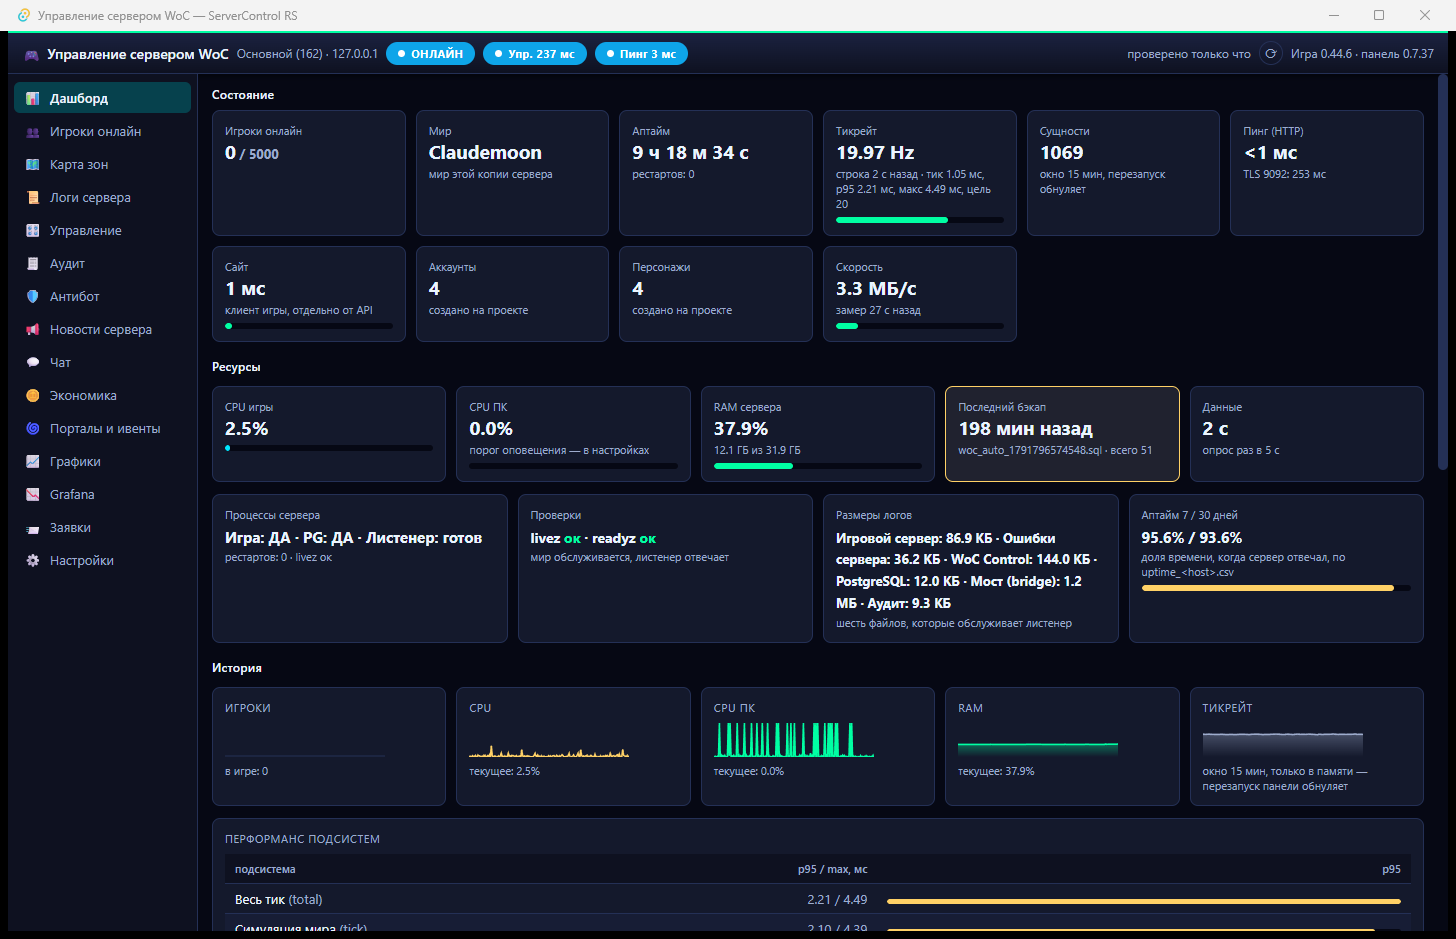
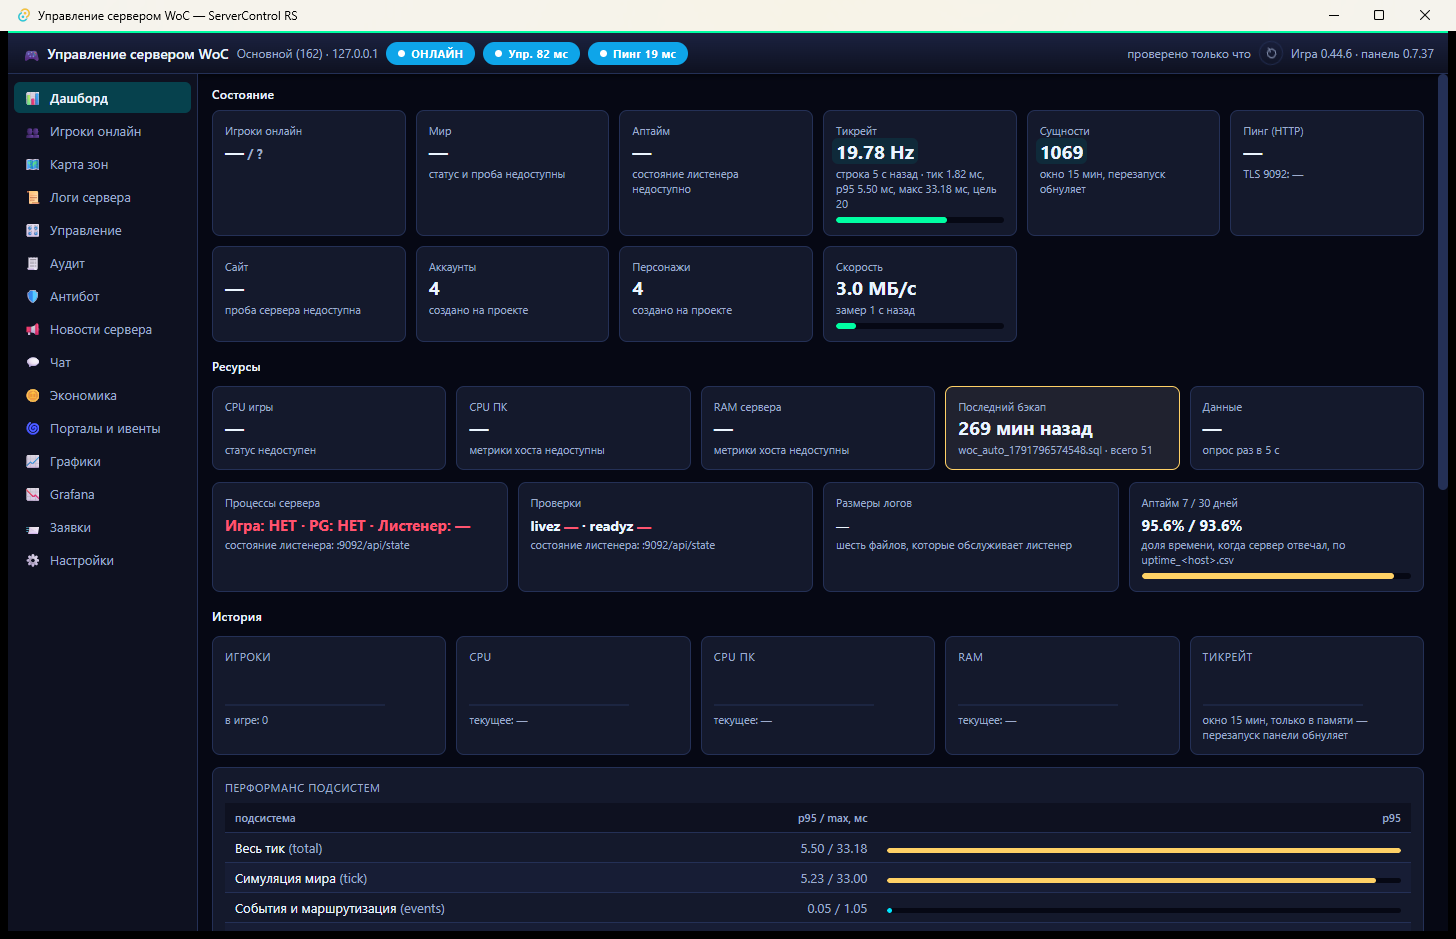
Галерея: скриншоты всех 14 вкладок панели 0.7.37, лайтбокс, обновлён hero

diff --git a/index.html b/index.html
@@ -156,6 +156,23 @@ h2{font-family:"Cinzel",serif;font-size:24px;font-weight:700;color:var(--txt);ma
 .faq-item.open .faq-a{max-height:200px}
 .faq-a-inner{padding:0 18px 14px;line-height:1.7}
 
+/* === GALLERY === */
+.gal{display:grid;grid-template-columns:repeat(auto-fill,minmax(320px,1fr));gap:16px}
+.gal-item{border:1px solid var(--border);border-radius:10px;overflow:hidden;background:var(--panel);cursor:pointer;transition:all .25s;position:relative}
+.gal-item:hover{border-color:var(--accent);transform:translateY(-4px);box-shadow:0 8px 32px var(--shadow)}
+.gal-item img{width:100%;display:block;aspect-ratio:16/10;object-fit:cover;object-position:top left}
+.gal-cap{padding:10px 14px;font-size:12px;color:var(--sub);display:flex;align-items:center;gap:8px;background:var(--card);border-top:1px solid var(--border)}
+.gal-cap span{font-size:14px}
+/* Lightbox */
+.lb{position:fixed;inset:0;background:rgba(0,0,0,.88);z-index:200;display:none;align-items:center;justify-content:center;flex-direction:column;gap:16px;padding:24px;backdrop-filter:blur(6px)}
+.lb.open{display:flex}
+.lb img{max-width:92vw;max-height:80vh;border-radius:10px;border:1px solid var(--border);box-shadow:0 12px 60px rgba(0,0,0,.7)}
+.lb-close{position:absolute;top:18px;right:22px;width:40px;height:40px;border-radius:50%;border:1px solid var(--border);background:var(--panel);color:var(--txt);font-size:20px;cursor:pointer;display:flex;align-items:center;justify-content:center;transition:all .2s}
+.lb-close:hover{background:var(--bad);border-color:var(--bad);color:#fff}
+.lb-cap{color:var(--sub);font-size:14px}
+
+@media(max-width:700px){.gal{grid-template-columns:1fr}}
+
 /* === CTA === */
 .cta{text-align:center;padding:60px 24px;border-top:1px solid var(--border)}
 .cta h2{font-size:26px;margin-bottom:10px}
@@ -223,6 +240,82 @@ h2{font-family:"Cinzel",serif;font-size:24px;font-weight:700;color:var(--txt);ma
   <div class="stat-item"><div class="stat-num" data-count="424">0</div><div class="stat-lbl">Rust-тестов</div></div>
   <div class="stat-item"><div class="stat-num" data-count="725">0</div><div class="stat-lbl">фронт-тестов</div></div>
   <div class="stat-item"><div class="stat-num" data-count="14">0</div><div class="stat-lbl">фикс. аудита</div></div>
+</div>
+
+<div class="divider"></div>
+
+<!-- ГАЛЕРЕЯ -->
+<div class="wrap">
+<div class="sec-head reveal">
+<div class="sec-tag">Галерея</div>
+<h2>Все вкладки панели</h2>
+<p>Нажмите на скриншот, чтобы открыть полный размер. Данные с живого сервера 0.44.6.</p>
+</div>
+<div class="gal">
+  <div class="gal-item reveal" data-img="panel_dash.png" data-cap="Дашборд — состояние сервера, ресурсы, история">
+    <img src="panel_dash.png" alt="Дашборд" loading="lazy">
+    <div class="gal-cap"><span>&#128202;</span> Дашборд</div>
+  </div>
+  <div class="gal-item reveal" data-img="panel_players.png" data-cap="Игроки онлайн — фильтры, классы, зоны, гильдии">
+    <img src="panel_players.png" alt="Игроки онлайн" loading="lazy">
+    <div class="gal-cap"><span>&#128101;</span> Игроки онлайн</div>
+  </div>
+  <div class="gal-item reveal" data-img="panel_map.png" data-cap="Карта зон — живая карта континента с игроками и порталами">
+    <img src="panel_map.png" alt="Карта зон" loading="lazy">
+    <div class="gal-cap"><span>&#128506;</span> Карта зон</div>
+  </div>
+  <div class="gal-item reveal" data-img="panel_logs.png" data-cap="Логи сервера — семь логов, фильтры, автоскролл">
+    <img src="panel_logs.png" alt="Логи сервера" loading="lazy">
+    <div class="gal-cap"><span>&#128220;</span> Логи сервера</div>
+  </div>
+  <div class="gal-item reveal" data-img="panel_manage.png" data-cap="Управление — стоп/старт, бэкапы, баны, плановый рестарт">
+    <img src="panel_manage.png" alt="Управление сервером" loading="lazy">
+    <div class="gal-cap"><span>&#127918;</span> Управление</div>
+  </div>
+  <div class="gal-item reveal" data-img="panel_antibot.png" data-cap="Антибот — детектор, подозрительные, калибровка">
+    <img src="panel_antibot.png" alt="Антибот" loading="lazy">
+    <div class="gal-cap"><span>&#128737;</span> Антибот</div>
+  </div>
+  <div class="gal-item reveal" data-img="panel_news.png" data-cap="Новости сервера — rich-text объявления с расписанием">
+    <img src="panel_news.png" alt="Новости сервера" loading="lazy">
+    <div class="gal-cap"><span>&#128226;</span> Новости сервера</div>
+  </div>
+  <div class="gal-item reveal" data-img="panel_chat.png" data-cap="Чат — переписка, собеседники, быстрые ответы">
+    <img src="panel_chat.png" alt="Чат" loading="lazy">
+    <div class="gal-cap"><span>&#128172;</span> Чат</div>
+  </div>
+  <div class="gal-item reveal" data-img="panel_economy.png" data-cap="Экономика — аккаунты Claudium, каталог, леджер, магазин">
+    <img src="panel_economy.png" alt="Экономика" loading="lazy">
+    <div class="gal-cap"><span>&#128176;</span> Экономика</div>
+  </div>
+  <div class="gal-item reveal" data-img="panel_portals.png" data-cap="Порталы и ивенты — открытые порталы с таймерами">
+    <img src="panel_portals.png" alt="Порталы и ивенты" loading="lazy">
+    <div class="gal-cap"><span>&#127744;</span> Порталы и ивенты</div>
+  </div>
+  <div class="gal-item reveal" data-img="panel_charts.png" data-cap="Графики — история CPU, RAM, онлайн, пинг">
+    <img src="panel_charts.png" alt="Графики" loading="lazy">
+    <div class="gal-cap"><span>&#128200;</span> Графики</div>
+  </div>
+  <div class="gal-item reveal" data-img="panel_audit.png" data-cap="Аудит — журнал действий с фильтрами и CSV">
+    <img src="panel_audit.png" alt="Аудит" loading="lazy">
+    <div class="gal-cap"><span>&#128269;</span> Аудит</div>
+  </div>
+  <div class="gal-item reveal" data-img="panel_requests.png" data-cap="Заявки магазина — одобрение с начислением">
+    <img src="panel_requests.png" alt="Заявки магазина" loading="lazy">
+    <div class="gal-cap"><span>&#128722;</span> Заявки</div>
+  </div>
+  <div class="gal-item reveal" data-img="panel_settings.png" data-cap="Настройки — профили, секреты DPAPI, расписания">
+    <img src="panel_settings.png" alt="Настройки" loading="lazy">
+    <div class="gal-cap"><span>&#9881;</span> Настройки</div>
+  </div>
+</div>
+</div>
+
+<!-- LIGHTBOX -->
+<div class="lb" id="lb">
+  <button class="lb-close" id="lb-close">&times;</button>
+  <img id="lb-img" src="" alt="">
+  <div class="lb-cap" id="lb-cap"></div>
 </div>
 
 <div class="divider"></div>
@@ -500,6 +593,17 @@ document.querySelectorAll('.prog-fill').forEach(function(x){progObs.observe(x)})
 document.querySelectorAll('.faq-q').forEach(function(q){
 q.addEventListener('click',function(){q.parentElement.classList.toggle('open')});
 });
+
+// Gallery lightbox
+var lb=document.getElementById('lb'),lbImg=document.getElementById('lb-img'),lbCap=document.getElementById('lb-cap');
+document.querySelectorAll('.gal-item').forEach(function(item){
+item.addEventListener('click',function(){
+lbImg.src=item.dataset.img;lbCap.textContent=item.dataset.cap||'';lb.classList.add('open');
+});
+});
+document.getElementById('lb-close').addEventListener('click',function(){lb.classList.remove('open')});
+lb.addEventListener('click',function(e){if(e.target===lb)lb.classList.remove('open')});
+document.addEventListener('keydown',function(e){if(e.key==='Escape')lb.classList.remove('open')});
 </script>
 </body>
 </html>
